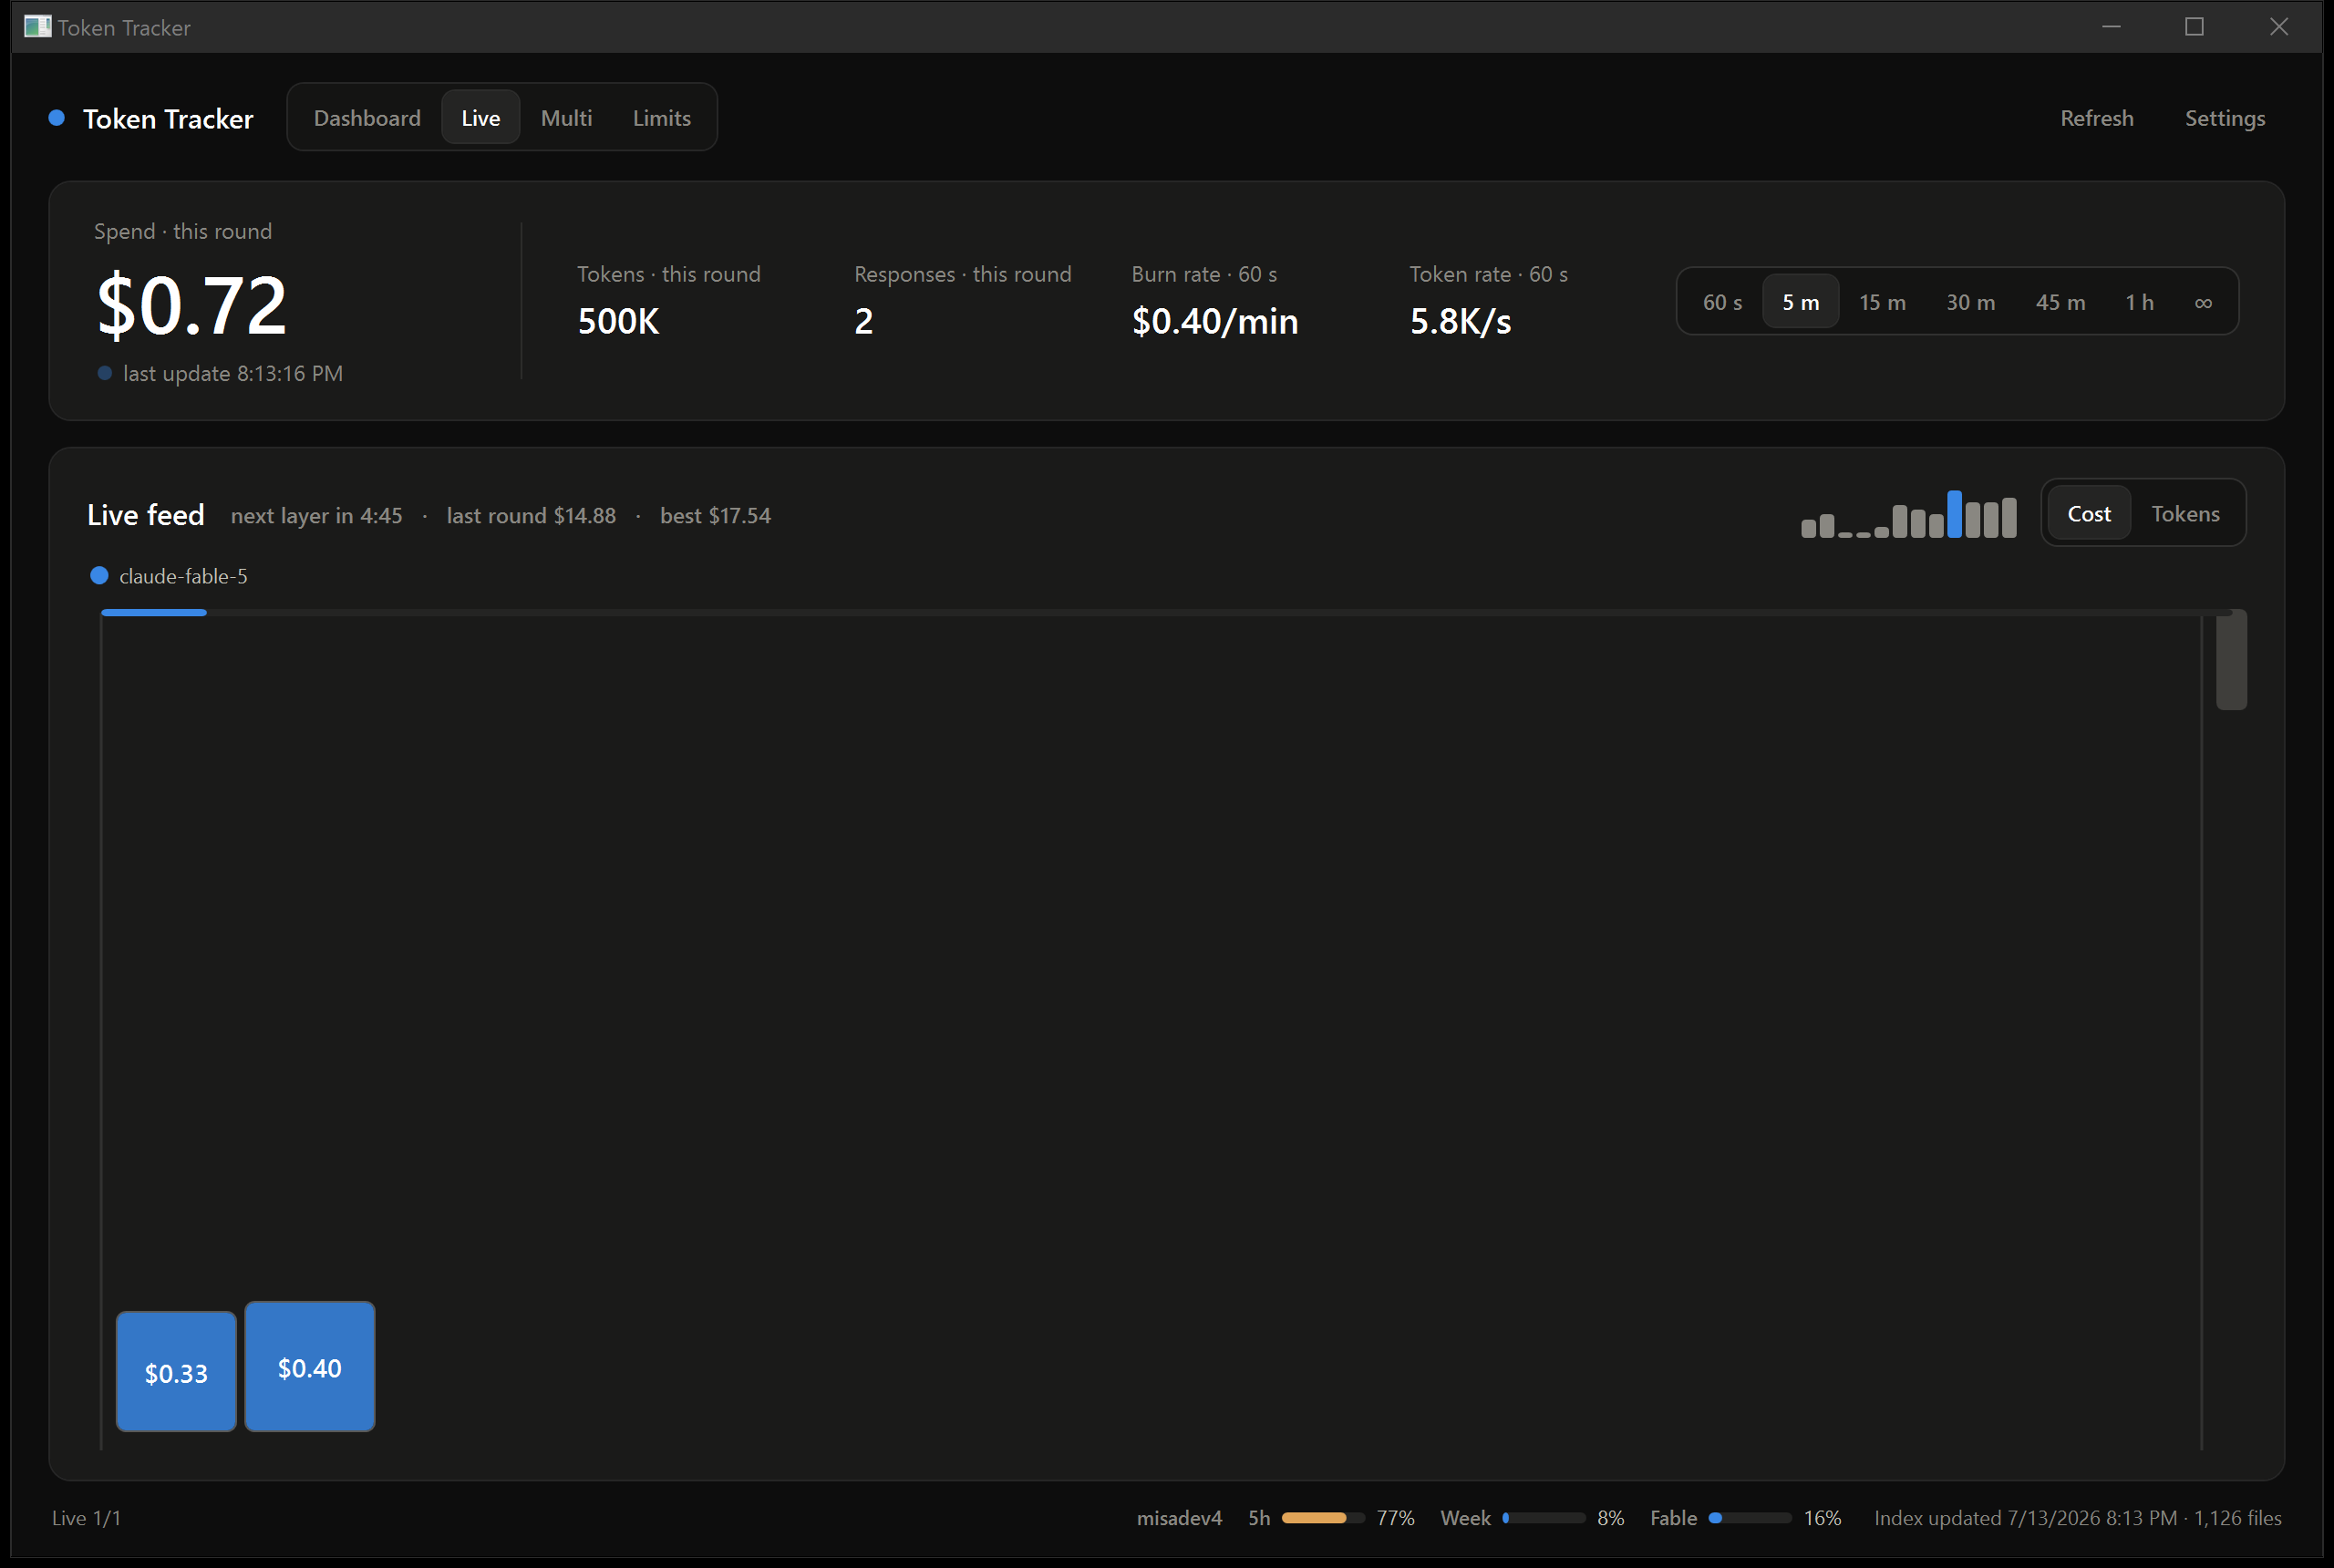
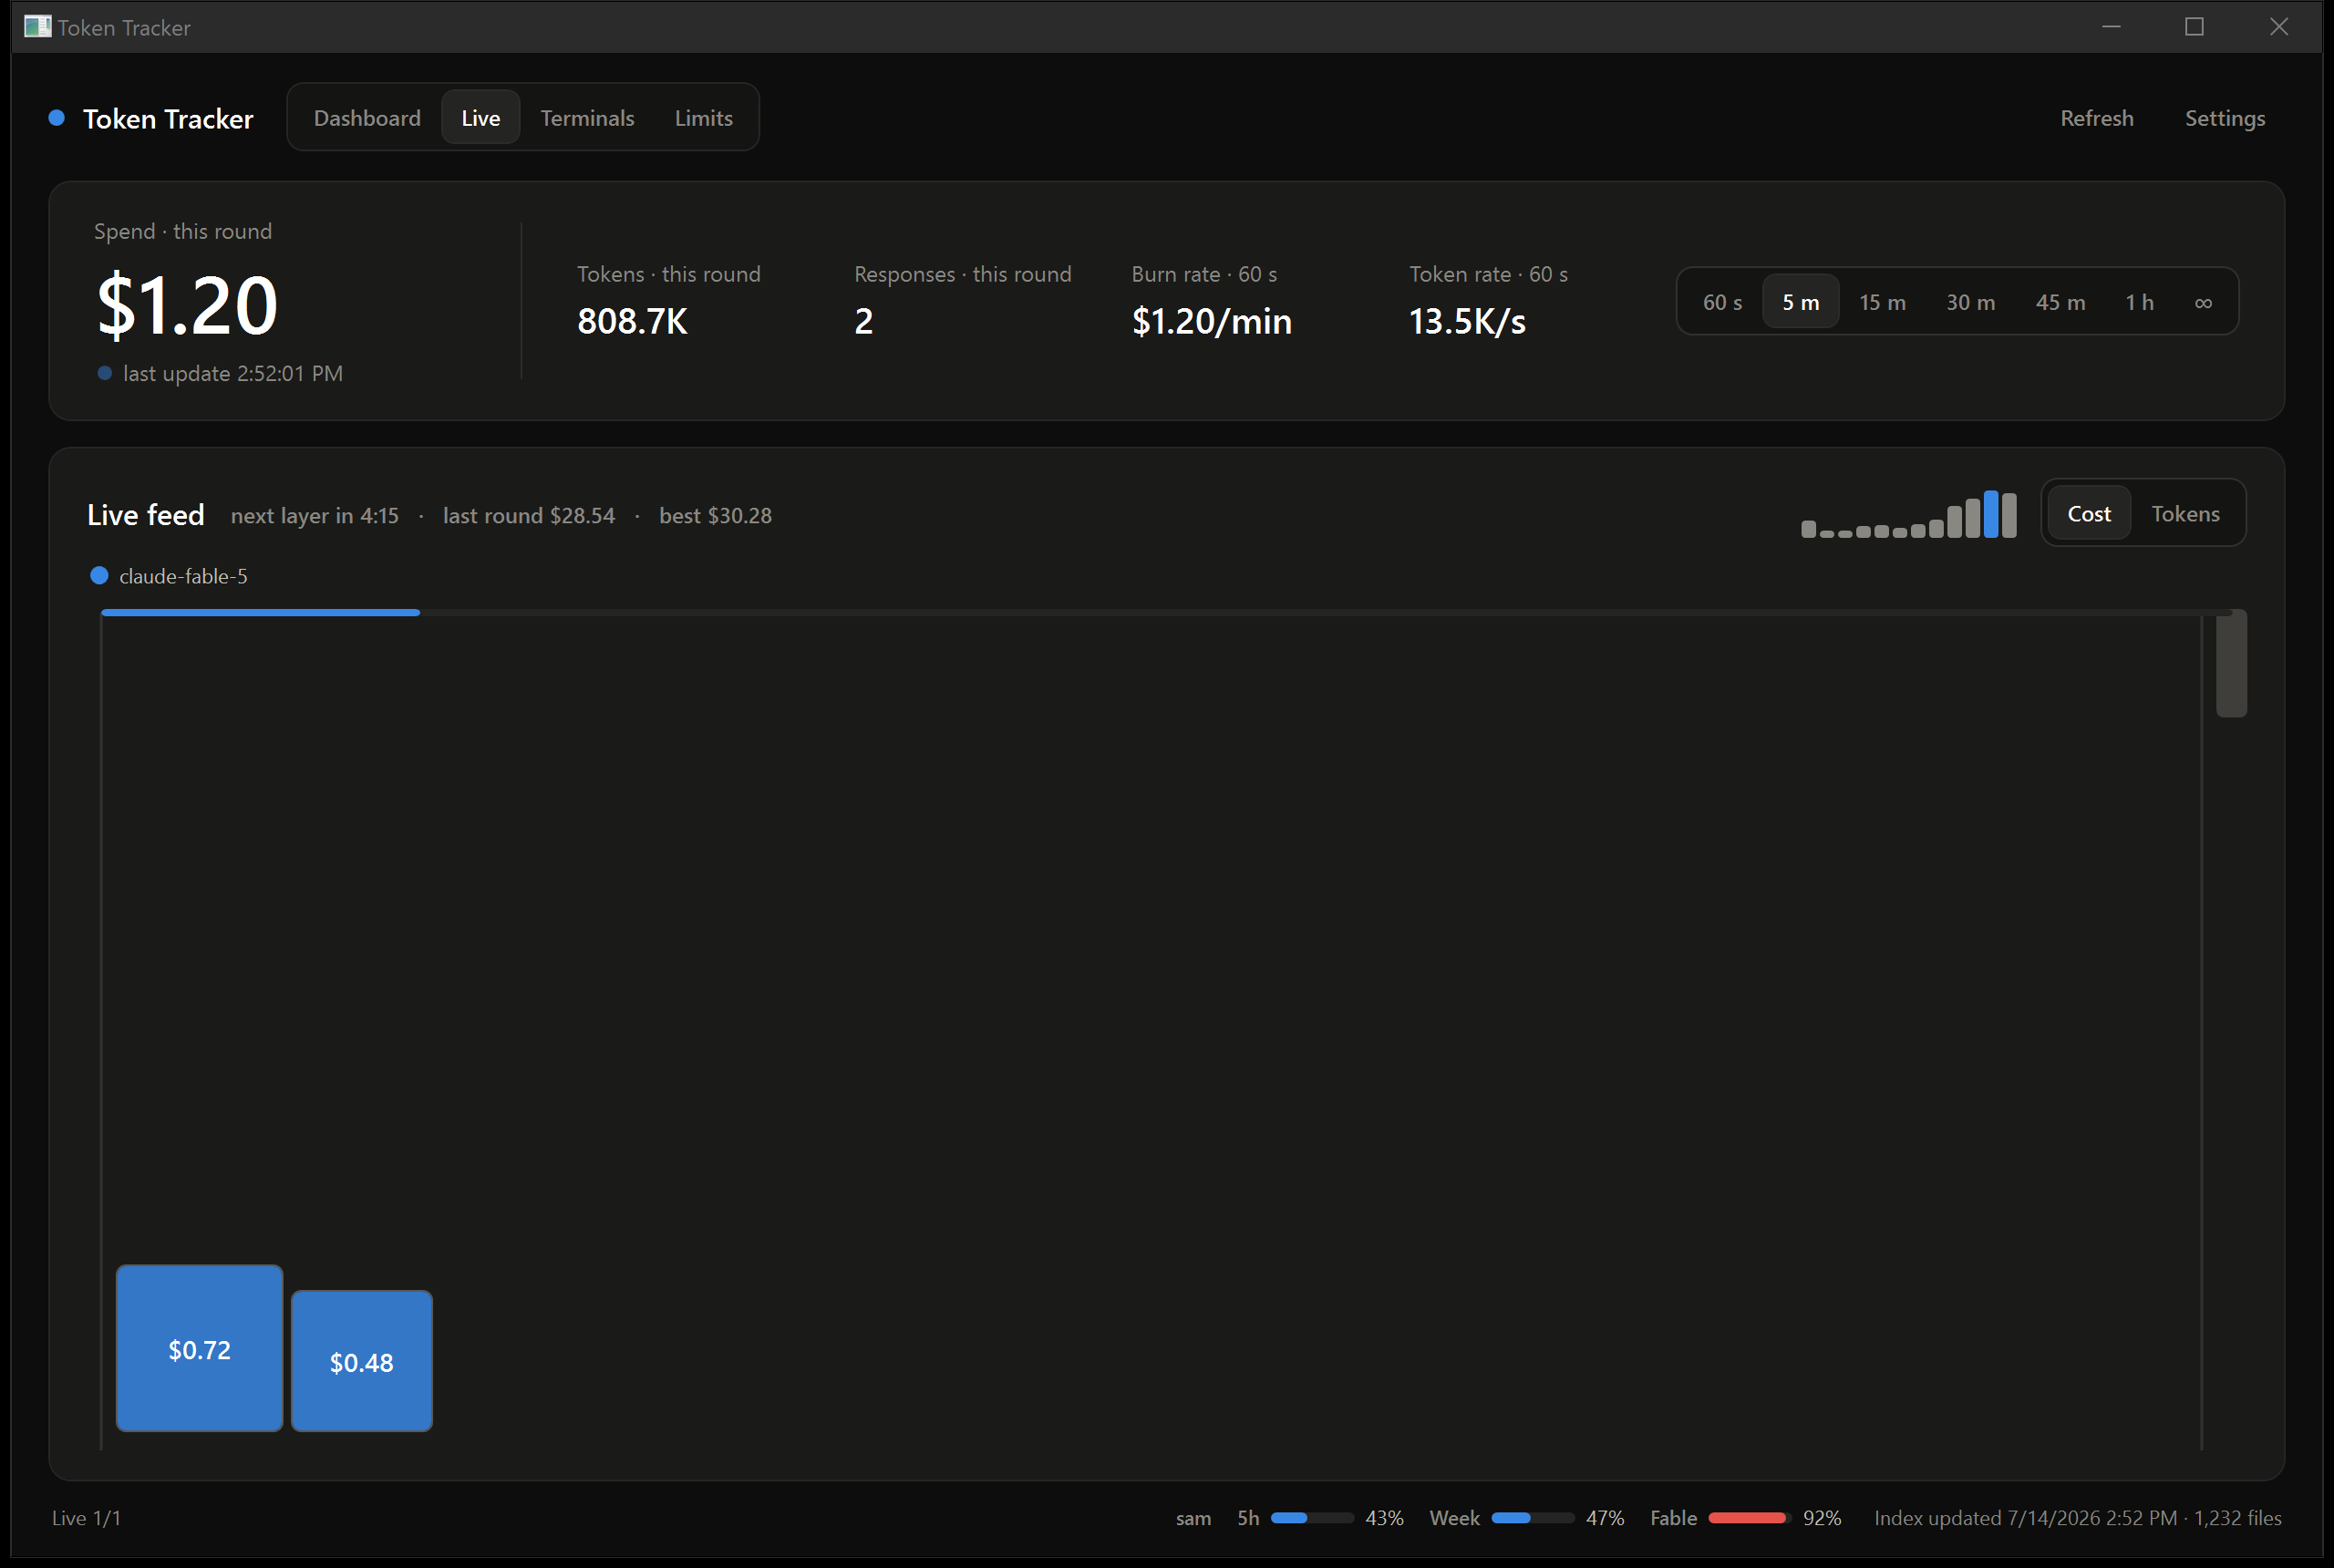
Refresh README and screenshots for the current UI
The Limits section now covers the daily activity heatmap and the
expired-limit roll-forward. New screenshots show the Terminals tab,
the denser bar-size options, a timed live round, and the heatmap;
account identities are masked with placeholders.

diff --git a/README.md b/README.md
@@ -24,7 +24,9 @@ Ultra real time: every response drops into the cup as a block within about a sec
 
 ![Limits](docs/limits.png)
 
-Your Claude plan rate limits — the same numbers Claude Code shows under `/usage`: the 5-hour session window, the weekly all-models window, and per-model weekly windows, each with a severity-colored usage bar, a reset countdown, and a thin companion bar showing how far through the window you are. Each account card also names its exact plan tier (Max 5x · $100/mo vs Max 20x · $200/mo), which `/usage` doesn't show. If several Claude accounts sign into Claude Code on this machine, each one gets its own card and keeps updating in the background between sign-ins. Each card also shows how much local usage is attributed to that account over the last 7 days: transcripts carry no account identity, so the app records which account is signed in as it polls and attributes events by when they landed — accurate whenever the tracker was running, unknowable for periods it wasn't. A compact copy of the signed-in account's meters lives in the status strip on every tab; click it to jump here.
+Your Claude plan rate limits — the same numbers Claude Code shows under `/usage`: the 5-hour session window, the weekly all-models window, and per-model weekly windows, each with a severity-colored usage bar, a reset countdown, and a thin companion bar showing how far through the window you are. Each account card also names its exact plan tier (Max 5x · $100/mo vs Max 20x · $200/mo), which `/usage` doesn't show. If several Claude accounts sign into Claude Code on this machine, each one gets its own card and keeps updating in the background between sign-ins; an account that can no longer be fetched never shows stale numbers — once a window's reset time passes, its bar rolls forward to zero. Each card also shows how much local usage is attributed to that account over the last 7 days: transcripts carry no account identity, so the app records which account is signed in as it polls and attributes events by when they landed — accurate whenever the tracker was running, unknowable for periods it wasn't. A compact copy of the signed-in account's meters lives in the status strip on every tab; click it to jump here.
+
+Above the account cards, a **Daily activity** grid maps a year of local usage GitHub-style — one cell per day, all clients combined, colored on a log-scaled blue-to-red ramp anchored to your biggest day, so only that day burns deep red. **Year** shows all twelve months at a glance; **Detail** enlarges recent months and prints each day's total on its cell. Both views switch between tokens and cost, and hovering any cell breaks the day down.
 
 ## Data sources
 